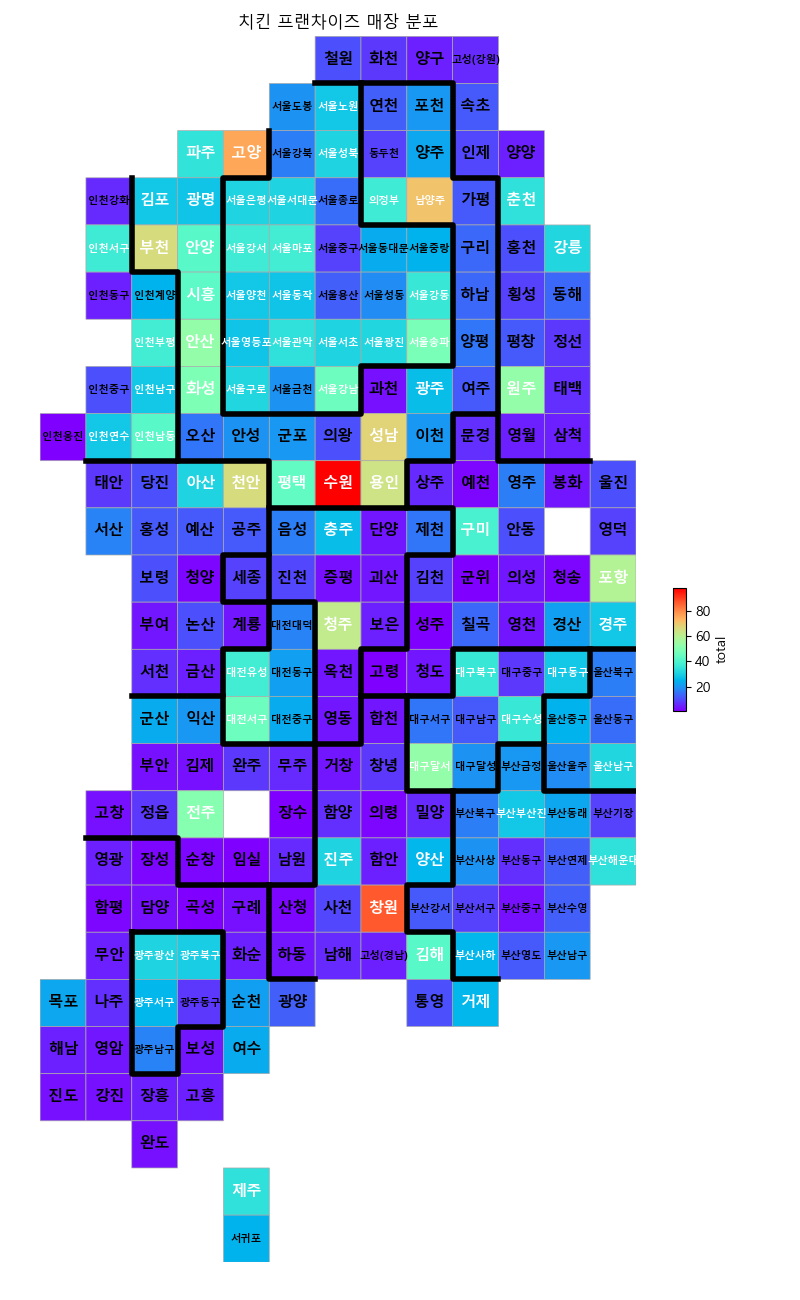
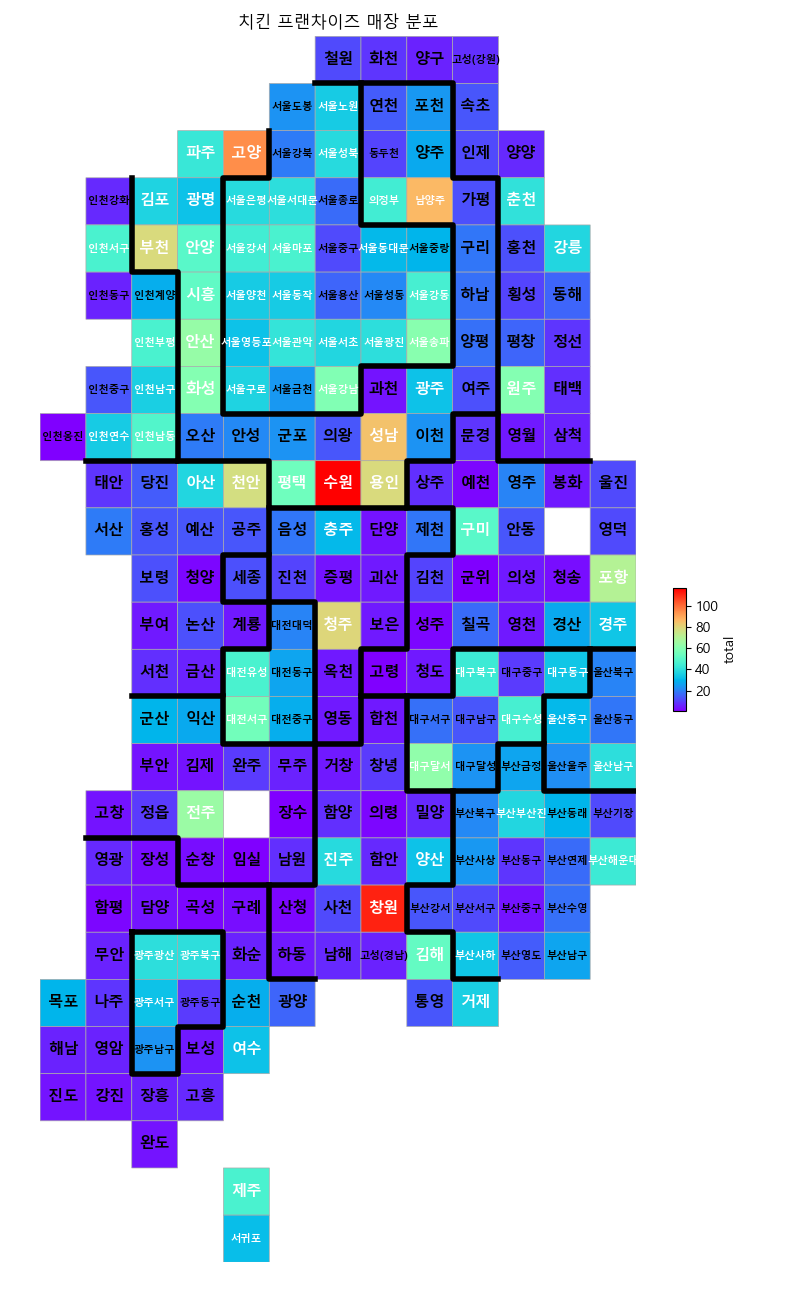
Update 각 프랜차이즈 지역별 매장 분포 시각화 및 활용

diff --git a/analyze.py b/analyze.py
@@ -113,10 +113,22 @@ goobne_table = goobne_table[goobne_table.gungu != '']
 goobne = goobne_table.apply(lambda r: str(r['sido']) + ' ' + str(r['gungu']), axis='columns').value_counts() # 'SIDO GUNGU' 별 매장수
 # print(goobne)
 
+# bbq
+bbq_table = pd.DataFrame.from_csv(
+    '__result__/crawling/bbq_table.csv',
+    encoding='utf-8',
+    index_col=0,
+    header=0).fillna('')
+
+bbq_table = bbq_table[bbq_table.sido != '']
+bbq_table = bbq_table[bbq_table.gungu != '']
+bbq = bbq_table.apply(lambda r: str(r['sido']) + ' ' + str(r['gungu']), axis='columns').value_counts() # 'SIDO GUNGU' 별 매장수
+# print(bbq)
+
 
 
 #
-chicken_table = pd.DataFrame({'pelicana': pelicana, 'nene': nene, 'kyochon': kyochon, 'goobne': goobne}).fillna(0)
+chicken_table = pd.DataFrame({'pelicana': pelicana, 'nene': nene, 'kyochon': kyochon, 'goobne': goobne, 'bbq': bbq}).fillna(0)
 chicken_table = chicken_table.drop(chicken_table[chicken_table.index == '00 18'].index)
 chicken_table = chicken_table.drop(chicken_table[chicken_table.index == '테스트 테스트구'].index)
 chicken_sum_table = chicken_table.sum(axis=0)
@@ -142,7 +154,7 @@ chicken_merge = pd.merge(
 # print(chicken_merge['면적'])
 
 chicken_merge = chicken_merge[~np.isnan(chicken_merge['면적'])]
-print(chicken_merge)
+# print(chicken_merge)
 
 
 # 경로가 없으면 만들자
@@ -157,6 +169,8 @@ showmap(chicken_merge, 'nene', '네네 매장 분포', 'Greens')
 showmap(chicken_merge, 'goobne', '굽네 매장 분포', 'Reds')
 # 교촌 매장 분포
 showmap(chicken_merge, 'kyochon', '교촌 매장 분포', 'Oranges')
+# 비비큐 매장 분포
+showmap(chicken_merge, 'bbq', '비비큐 매장 분포', 'Purples')
 
 chicken_merge['total'] = chicken_table.sum(axis=1)
 # 치킨 프랜차이즈 매장 분포
@@ -166,7 +180,7 @@ showmap(chicken_merge, 'total', '치킨 프랜차이즈 매장 분포', 'rainbow
 # 인구 만명 당 매장 수
 chicken_merge['total10k'] = chicken_merge['total'] / chicken_merge['인구수']
 chicken_merge = chicken_merge[~np.isnan(chicken_merge['total10k'])]
-showmap(chicken_merge, 'total10k', '치킨 프랜차이즈 매장 분포', 'Purples')
+showmap(chicken_merge, 'total10k', '치킨 프랜차이즈 매장 분포', 'Accent')
 
 # 면적 당 매장 수
 chicken_merge['area'] = chicken_merge['total'] / chicken_merge['면적']
